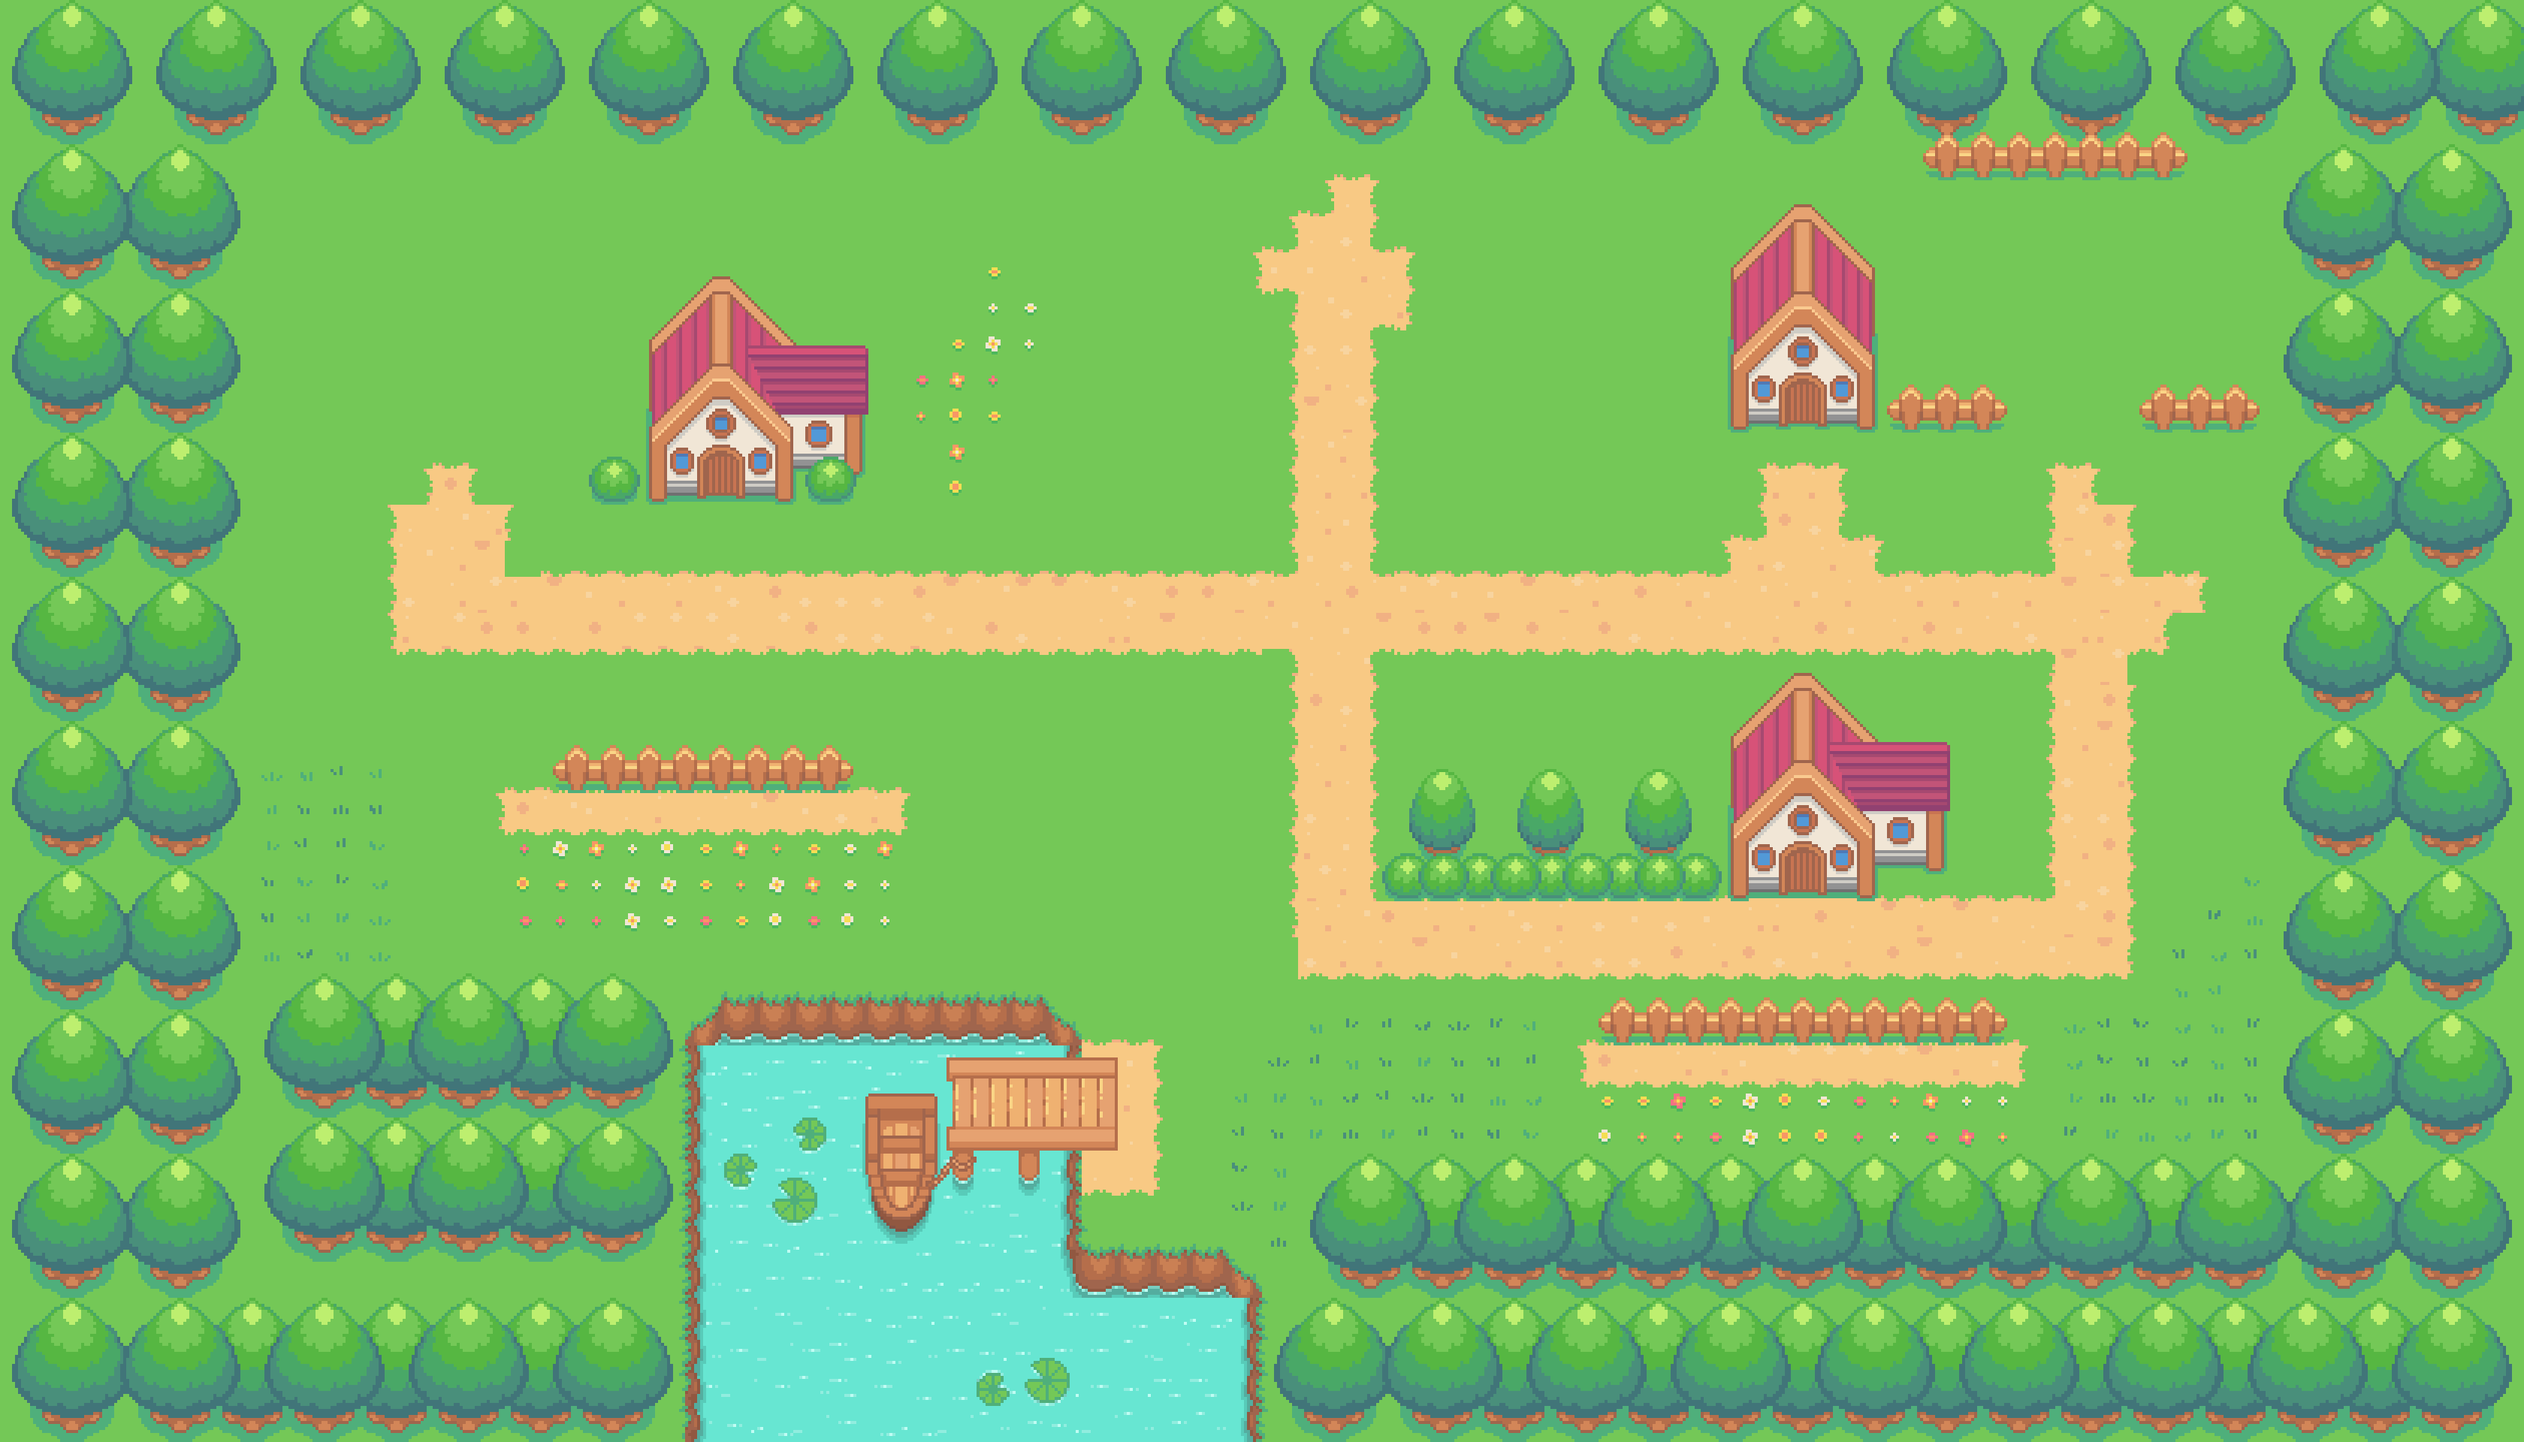
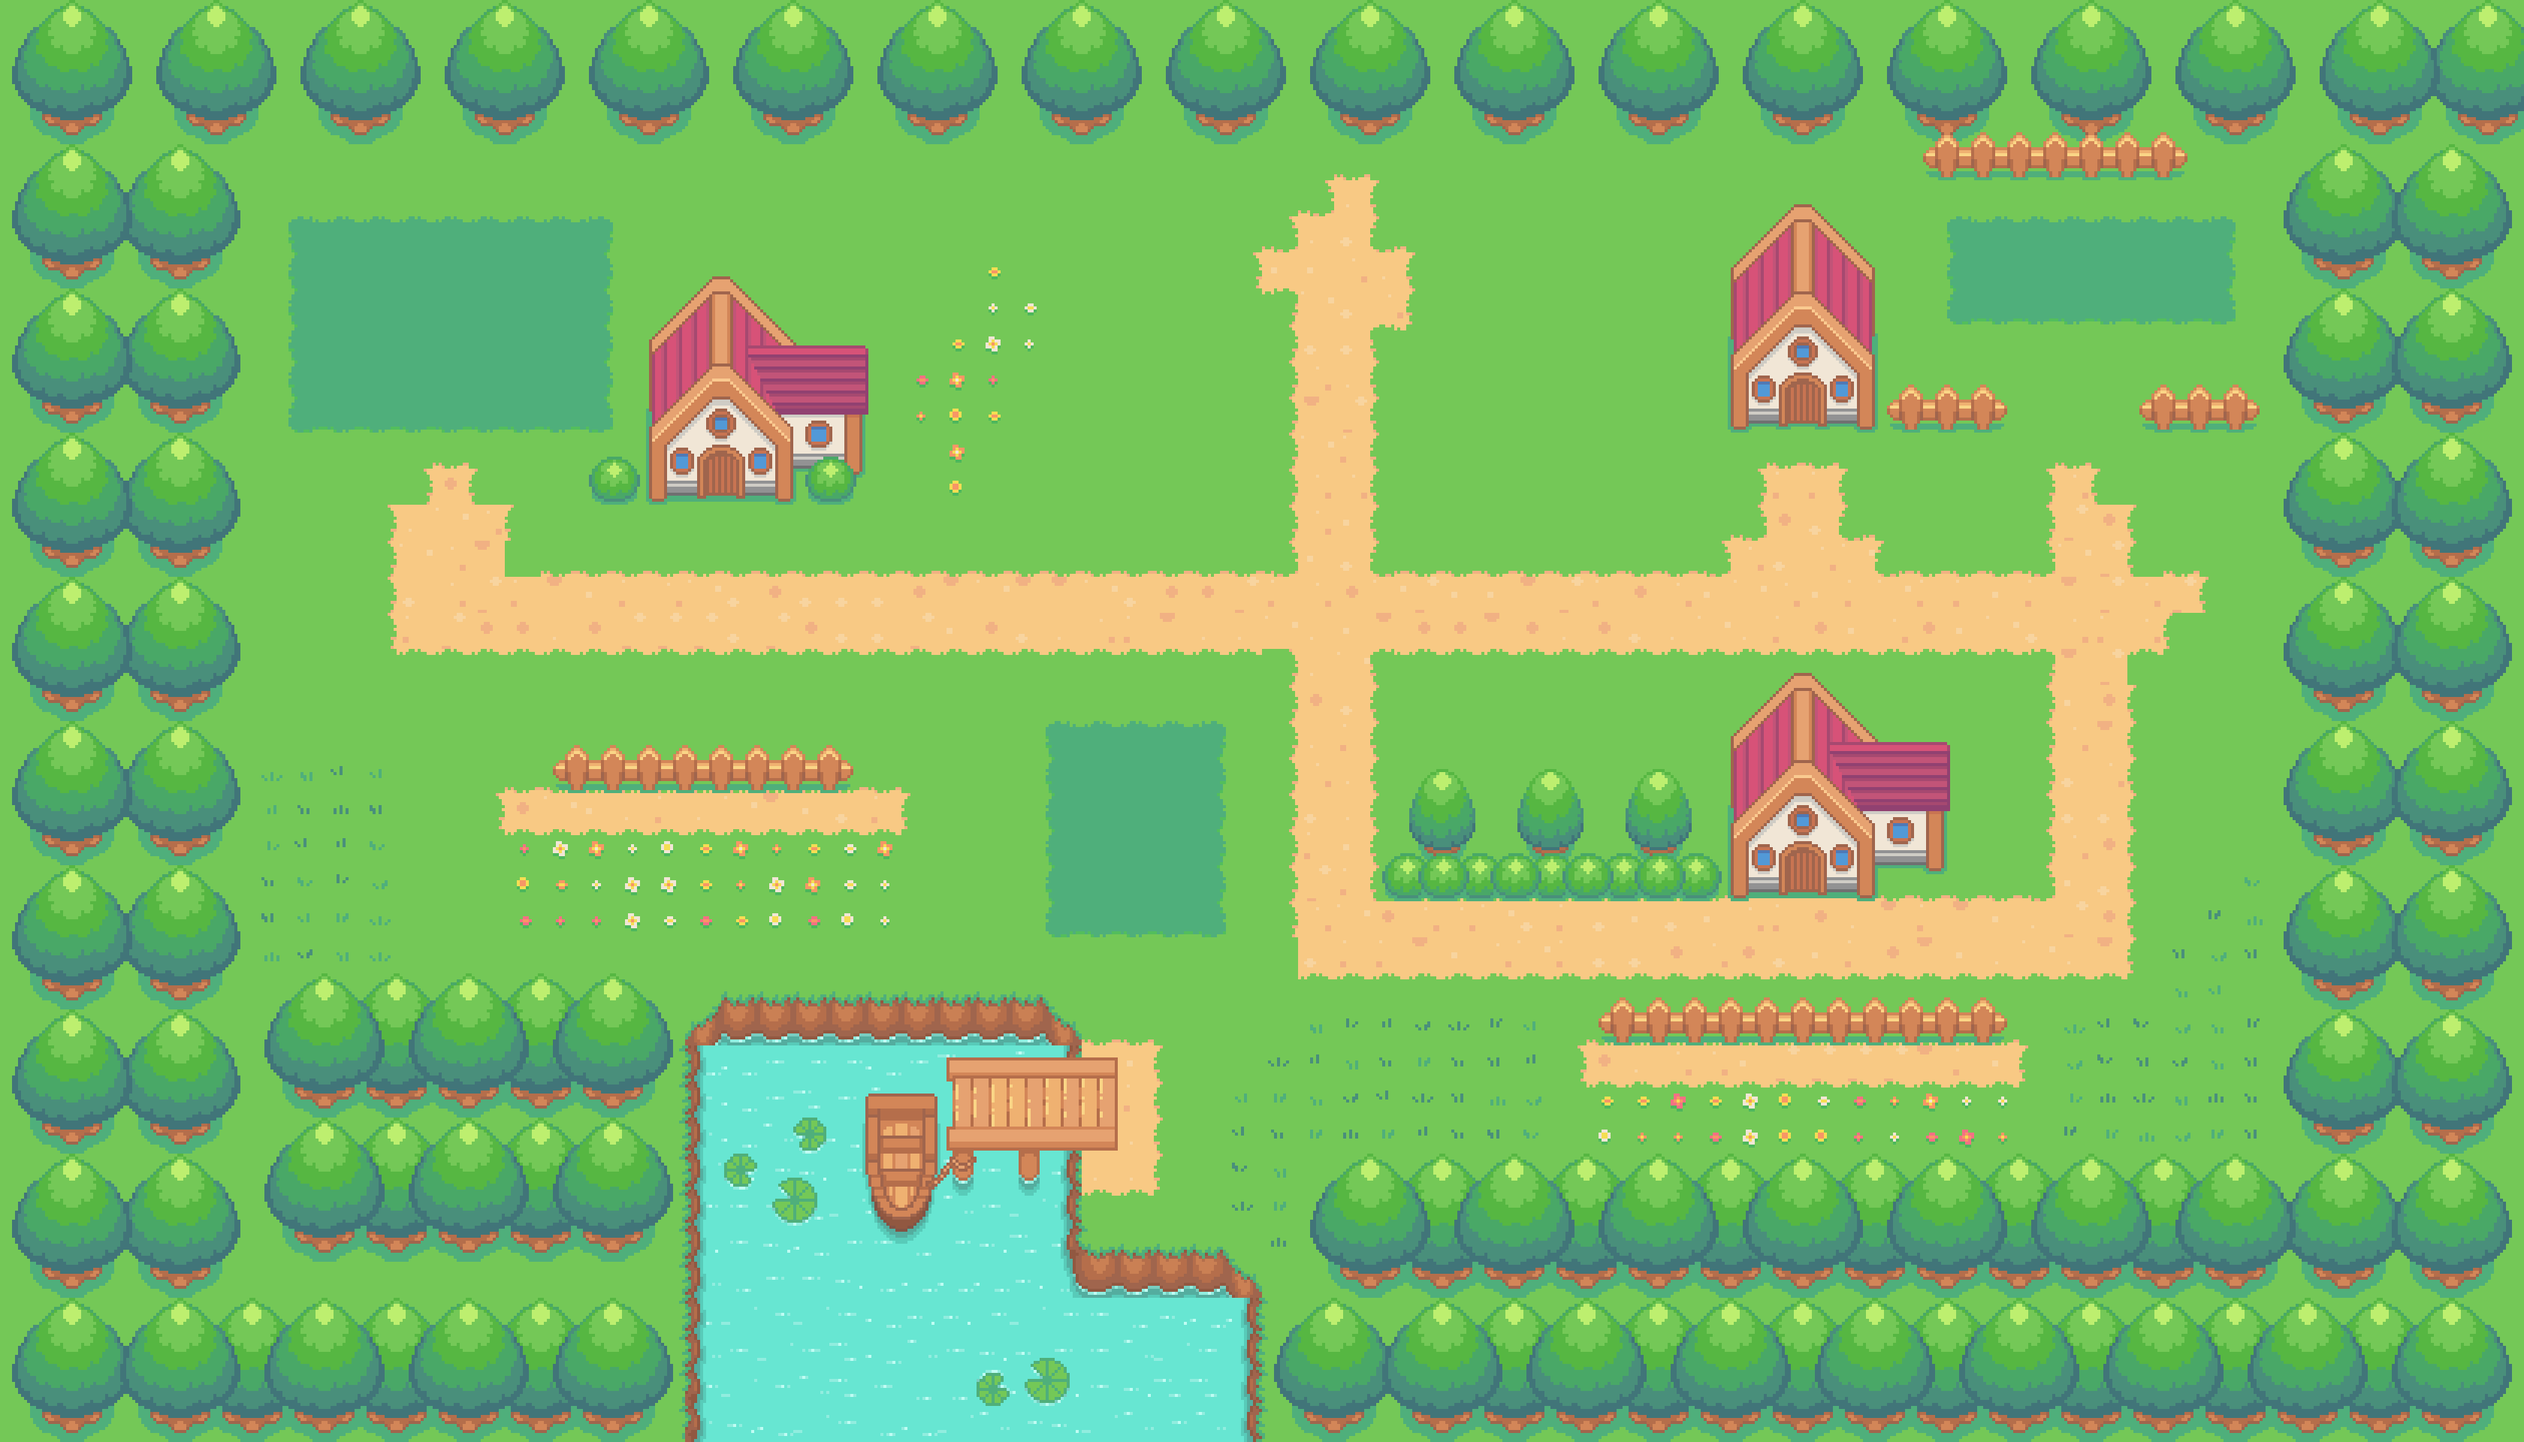
added new map with battle zones because I forgot the fist time

Changed region(s): [[0.0938, 0.125, 0.25, 0.3125], [0.75, 0.125, 0.9062, 0.25], [0.4062, 0.5, 0.5, 0.6562]]

diff --git a/data/battleZones.js b/data/battleZones.js
@@ -1,4 +1,4 @@
-const battleZones = [
+const battleZonesData = [
   0, 0, 0, 0, 0, 0, 0, 0, 0, 0, 0, 0, 0, 0, 0, 0, 0, 0, 0, 0, 0, 0, 0, 0, 0, 0,
   0, 0, 0, 0, 0, 0, 0, 0, 0, 0, 0, 0, 0, 0, 0, 0, 0, 0, 0, 0, 0, 0, 0, 0, 0, 0,
   0, 0, 0, 0, 0, 0, 0, 0, 0, 0, 0, 0, 0, 0, 0, 0, 0, 0, 0, 0, 0, 0, 0, 0, 0, 0,
@@ -15,24 +15,24 @@ const battleZones = [
   0, 0, 0, 0, 0, 0, 0, 0, 0, 0, 0, 0, 0, 0, 0, 0, 0, 0, 0, 0, 0, 0, 0, 0, 0, 0,
   0, 0, 0, 0, 0, 0, 0, 0, 0, 0, 0, 0, 0, 0, 0, 0, 0, 0, 0, 0, 0, 0, 0, 0, 0, 0,
   0, 0, 0, 0, 0, 0, 0, 0, 0, 0, 0, 0, 0, 0, 0, 0, 0, 0, 0, 0, 0, 0, 0, 0, 0, 0,
-  0, 0, 0, 0, 0, 0, 0, 0, 0, 0, 0, 0, 307, 308, 308, 308, 308, 308, 308, 308,
-  309, 0, 0, 0, 0, 0, 0, 0, 0, 0, 0, 0, 0, 0, 0, 0, 0, 0, 0, 0, 0, 0, 0, 0, 0,
-  0, 0, 0, 0, 0, 0, 0, 0, 0, 0, 0, 0, 0, 307, 308, 308, 308, 308, 308, 308, 309,
-  0, 0, 0, 0, 0, 0, 0, 0, 0, 0, 0, 0, 0, 0, 0, 0, 339, 340, 340, 340, 340, 340,
-  340, 340, 341, 0, 0, 0, 0, 0, 0, 0, 0, 0, 0, 0, 0, 0, 0, 0, 0, 0, 0, 0, 0, 0,
-  0, 0, 0, 0, 0, 0, 0, 0, 0, 0, 0, 0, 0, 0, 0, 0, 339, 340, 340, 340, 340, 340,
-  340, 341, 0, 0, 0, 0, 0, 0, 0, 0, 0, 0, 0, 0, 0, 0, 0, 0, 339, 340, 340, 340,
-  340, 340, 340, 340, 341, 0, 0, 0, 0, 0, 0, 0, 0, 0, 0, 0, 0, 0, 0, 0, 0, 0, 0,
-  0, 0, 0, 0, 0, 0, 0, 0, 0, 0, 0, 0, 0, 0, 0, 0, 0, 0, 0, 371, 372, 372, 372,
-  372, 372, 372, 373, 0, 0, 0, 0, 0, 0, 0, 0, 0, 0, 0, 0, 0, 0, 0, 0, 339, 340,
-  340, 340, 340, 340, 340, 340, 341, 0, 0, 0, 0, 0, 0, 0, 0, 0, 0, 0, 0, 0, 0,
+  0, 0, 0, 0, 0, 0, 0, 0, 0, 0, 0, 0, 1025, 1025, 1025, 1025, 1025, 1025, 1025,
+  1025, 1025, 0, 0, 0, 0, 0, 0, 0, 0, 0, 0, 0, 0, 0, 0, 0, 0, 0, 0, 0, 0, 0, 0,
+  0, 0, 0, 0, 0, 0, 0, 0, 0, 0, 0, 0, 0, 0, 0, 1025, 1025, 1025, 1025, 1025,
+  1025, 1025, 1025, 0, 0, 0, 0, 0, 0, 0, 0, 0, 0, 0, 0, 0, 0, 0, 0, 1025, 1025,
+  1025, 1025, 1025, 1025, 1025, 1025, 1025, 0, 0, 0, 0, 0, 0, 0, 0, 0, 0, 0, 0,
+  0, 0, 0, 0, 0, 0, 0, 0, 0, 0, 0, 0, 0, 0, 0, 0, 0, 0, 0, 0, 0, 0, 0, 0, 0,
+  1025, 1025, 1025, 1025, 1025, 1025, 1025, 1025, 0, 0, 0, 0, 0, 0, 0, 0, 0, 0,
+  0, 0, 0, 0, 0, 0, 1025, 1025, 1025, 1025, 1025, 1025, 1025, 1025, 1025, 0, 0,
   0, 0, 0, 0, 0, 0, 0, 0, 0, 0, 0, 0, 0, 0, 0, 0, 0, 0, 0, 0, 0, 0, 0, 0, 0, 0,
-  0, 0, 0, 0, 0, 0, 0, 0, 0, 0, 0, 0, 0, 0, 0, 0, 0, 0, 0, 0, 0, 339, 340, 340,
-  340, 340, 340, 340, 340, 341, 0, 0, 0, 0, 0, 0, 0, 0, 0, 0, 0, 0, 0, 0, 0, 0,
+  0, 0, 0, 0, 0, 0, 0, 0, 0, 1025, 1025, 1025, 1025, 1025, 1025, 1025, 1025, 0,
+  0, 0, 0, 0, 0, 0, 0, 0, 0, 0, 0, 0, 0, 0, 0, 1025, 1025, 1025, 1025, 1025,
+  1025, 1025, 1025, 1025, 0, 0, 0, 0, 0, 0, 0, 0, 0, 0, 0, 0, 0, 0, 0, 0, 0, 0,
   0, 0, 0, 0, 0, 0, 0, 0, 0, 0, 0, 0, 0, 0, 0, 0, 0, 0, 0, 0, 0, 0, 0, 0, 0, 0,
-  0, 0, 0, 0, 0, 0, 0, 0, 0, 0, 0, 0, 0, 0, 0, 0, 0, 0, 0, 371, 372, 372, 372,
-  372, 372, 372, 372, 373, 0, 0, 0, 0, 0, 0, 0, 0, 0, 0, 0, 0, 0, 0, 0, 0, 0, 0,
+  0, 0, 0, 0, 0, 0, 0, 0, 0, 0, 0, 0, 0, 0, 0, 0, 0, 1025, 1025, 1025, 1025,
+  1025, 1025, 1025, 1025, 1025, 0, 0, 0, 0, 0, 0, 0, 0, 0, 0, 0, 0, 0, 0, 0, 0,
   0, 0, 0, 0, 0, 0, 0, 0, 0, 0, 0, 0, 0, 0, 0, 0, 0, 0, 0, 0, 0, 0, 0, 0, 0, 0,
+  0, 0, 0, 0, 0, 0, 0, 0, 0, 0, 0, 0, 0, 0, 0, 0, 0, 0, 0, 1025, 1025, 1025,
+  1025, 1025, 1025, 1025, 1025, 1025, 0, 0, 0, 0, 0, 0, 0, 0, 0, 0, 0, 0, 0, 0,
   0, 0, 0, 0, 0, 0, 0, 0, 0, 0, 0, 0, 0, 0, 0, 0, 0, 0, 0, 0, 0, 0, 0, 0, 0, 0,
   0, 0, 0, 0, 0, 0, 0, 0, 0, 0, 0, 0, 0, 0, 0, 0, 0, 0, 0, 0, 0, 0, 0, 0, 0, 0,
   0, 0, 0, 0, 0, 0, 0, 0, 0, 0, 0, 0, 0, 0, 0, 0, 0, 0, 0, 0, 0, 0, 0, 0, 0, 0,
@@ -56,21 +56,24 @@ const battleZones = [
   0, 0, 0, 0, 0, 0, 0, 0, 0, 0, 0, 0, 0, 0, 0, 0, 0, 0, 0, 0, 0, 0, 0, 0, 0, 0,
   0, 0, 0, 0, 0, 0, 0, 0, 0, 0, 0, 0, 0, 0, 0, 0, 0, 0, 0, 0, 0, 0, 0, 0, 0, 0,
   0, 0, 0, 0, 0, 0, 0, 0, 0, 0, 0, 0, 0, 0, 0, 0, 0, 0, 0, 0, 0, 0, 0, 0, 0, 0,
-  307, 308, 308, 308, 309, 0, 0, 0, 0, 0, 0, 0, 0, 0, 0, 0, 0, 0, 0, 0, 0, 0, 0,
   0, 0, 0, 0, 0, 0, 0, 0, 0, 0, 0, 0, 0, 0, 0, 0, 0, 0, 0, 0, 0, 0, 0, 0, 0, 0,
-  0, 0, 0, 0, 0, 0, 0, 0, 0, 0, 0, 0, 0, 0, 0, 0, 0, 0, 0, 0, 0, 339, 340, 340,
-  340, 341, 0, 0, 0, 0, 0, 0, 0, 0, 0, 0, 0, 0, 0, 0, 0, 0, 0, 0, 0, 0, 0, 0, 0,
+  0, 0, 0, 0, 1025, 1025, 1025, 1025, 1025, 0, 0, 0, 0, 0, 0, 0, 0, 0, 0, 0, 0,
   0, 0, 0, 0, 0, 0, 0, 0, 0, 0, 0, 0, 0, 0, 0, 0, 0, 0, 0, 0, 0, 0, 0, 0, 0, 0,
-  0, 0, 0, 0, 0, 0, 0, 0, 0, 0, 0, 0, 0, 0, 0, 0, 339, 340, 340, 340, 341, 0, 0,
   0, 0, 0, 0, 0, 0, 0, 0, 0, 0, 0, 0, 0, 0, 0, 0, 0, 0, 0, 0, 0, 0, 0, 0, 0, 0,
+  0, 1025, 1025, 1025, 1025, 1025, 0, 0, 0, 0, 0, 0, 0, 0, 0, 0, 0, 0, 0, 0, 0,
   0, 0, 0, 0, 0, 0, 0, 0, 0, 0, 0, 0, 0, 0, 0, 0, 0, 0, 0, 0, 0, 0, 0, 0, 0, 0,
-  0, 0, 0, 0, 0, 0, 0, 0, 0, 0, 0, 339, 340, 340, 340, 341, 0, 0, 0, 0, 0, 0, 0,
+  0, 0, 0, 0, 0, 0, 0, 0, 0, 0, 0, 0, 0, 0, 0, 0, 0, 0, 0, 0, 0, 0, 0, 0, 1025,
+  1025, 1025, 1025, 1025, 0, 0, 0, 0, 0, 0, 0, 0, 0, 0, 0, 0, 0, 0, 0, 0, 0, 0,
   0, 0, 0, 0, 0, 0, 0, 0, 0, 0, 0, 0, 0, 0, 0, 0, 0, 0, 0, 0, 0, 0, 0, 0, 0, 0,
+  0, 0, 0, 0, 0, 0, 0, 0, 0, 0, 0, 0, 0, 0, 0, 0, 0, 0, 0, 0, 0, 1025, 1025,
+  1025, 1025, 1025, 0, 0, 0, 0, 0, 0, 0, 0, 0, 0, 0, 0, 0, 0, 0, 0, 0, 0, 0, 0,
   0, 0, 0, 0, 0, 0, 0, 0, 0, 0, 0, 0, 0, 0, 0, 0, 0, 0, 0, 0, 0, 0, 0, 0, 0, 0,
-  0, 0, 0, 0, 0, 0, 339, 340, 340, 340, 341, 0, 0, 0, 0, 0, 0, 0, 0, 0, 0, 0, 0,
+  0, 0, 0, 0, 0, 0, 0, 0, 0, 0, 0, 0, 0, 0, 0, 0, 0, 0, 0, 1025, 1025, 1025,
+  1025, 1025, 0, 0, 0, 0, 0, 0, 0, 0, 0, 0, 0, 0, 0, 0, 0, 0, 0, 0, 0, 0, 0, 0,
   0, 0, 0, 0, 0, 0, 0, 0, 0, 0, 0, 0, 0, 0, 0, 0, 0, 0, 0, 0, 0, 0, 0, 0, 0, 0,
+  0, 0, 0, 0, 0, 0, 0, 0, 0, 0, 0, 0, 0, 0, 0, 0, 0, 1025, 1025, 1025, 1025,
+  1025, 0, 0, 0, 0, 0, 0, 0, 0, 0, 0, 0, 0, 0, 0, 0, 0, 0, 0, 0, 0, 0, 0, 0, 0,
   0, 0, 0, 0, 0, 0, 0, 0, 0, 0, 0, 0, 0, 0, 0, 0, 0, 0, 0, 0, 0, 0, 0, 0, 0, 0,
-  0, 371, 372, 372, 372, 373, 0, 0, 0, 0, 0, 0, 0, 0, 0, 0, 0, 0, 0, 0, 0, 0, 0,
   0, 0, 0, 0, 0, 0, 0, 0, 0, 0, 0, 0, 0, 0, 0, 0, 0, 0, 0, 0, 0, 0, 0, 0, 0, 0,
   0, 0, 0, 0, 0, 0, 0, 0, 0, 0, 0, 0, 0, 0, 0, 0, 0, 0, 0, 0, 0, 0, 0, 0, 0, 0,
   0, 0, 0, 0, 0, 0, 0, 0, 0, 0, 0, 0, 0, 0, 0, 0, 0, 0, 0, 0, 0, 0, 0, 0, 0, 0,
@@ -108,6 +111,5 @@ const battleZones = [
   0, 0, 0, 0, 0, 0, 0, 0, 0, 0, 0, 0, 0, 0, 0, 0, 0, 0, 0, 0, 0, 0, 0, 0, 0, 0,
   0, 0, 0, 0, 0, 0, 0, 0, 0, 0, 0, 0, 0, 0, 0, 0, 0, 0, 0, 0, 0, 0, 0, 0, 0, 0,
   0, 0, 0, 0, 0, 0, 0, 0, 0, 0, 0, 0, 0, 0, 0, 0, 0, 0, 0, 0, 0, 0, 0, 0, 0, 0,
-  0, 0, 0, 0, 0, 0, 0, 0, 0, 0, 0, 0, 0, 0, 0, 0, 0, 0, 0, 0, 0, 0, 0, 0, 0, 0,
-  0, 0, 0, 0, 0, 0, 0, 0, 0, 0, 0,
+  0, 0, 0, 0,
 ];

diff --git a/script.js b/script.js
@@ -1,6 +1,6 @@
 const canvas = document.querySelector("canvas");
 const context = canvas.getContext("2d");
-console.log(battleZones);
+console.log(battleZonesData);
 
 canvas.width = 1024;
 canvas.height = 576;
@@ -9,6 +9,11 @@ canvas.height = 576;
 const collisionsMap = [];
 for (let i = 0; i < collisions.length; i += 70) {
   collisionsMap.push(collisions.slice(i, 70 + i));
+}
+
+const battleZonesMap = [];
+for (let i = 0; i < battleZonesData.length; i += 70) {
+  battleZonesMap.push(battleZonesData.slice(i, 70 + i));
 }
 
 const boundaries = [];
@@ -30,6 +35,24 @@ collisionsMap.forEach((row, i) => {
       );
   });
 });
+
+const battleZones = [];
+
+battleZonesMap.forEach((row, i) => {
+  row.forEach((symbol, j) => {
+    if (symbol === 1025)
+      battleZones.push(
+        new Boundary({
+          position: {
+            x: j * Boundary.width + offset.x,
+            y: i * Boundary.height + offset.y,
+          },
+        })
+      );
+  });
+});
+
+console.log(battleZones);
 
 // Making sure the sprite and map are loading in properly and at the right time
 const image = new Image();
